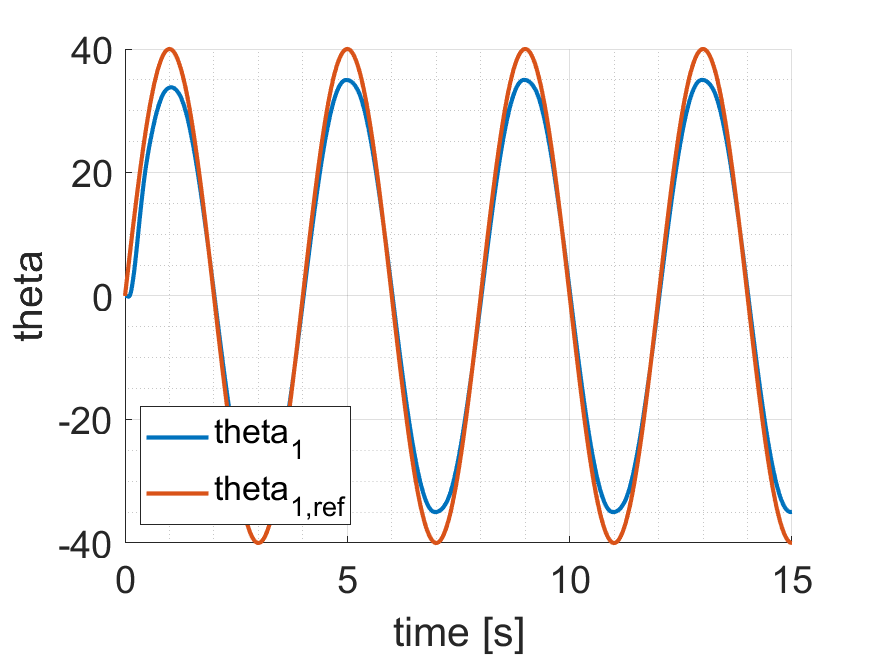
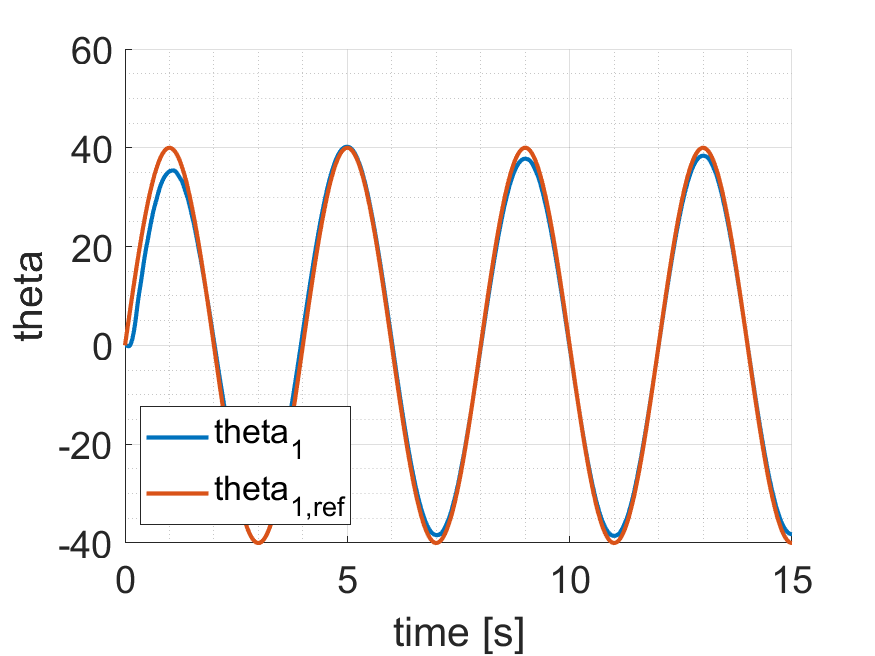
task05 ZiNi

diff --git a/final_exam/task05/run.m b/final_exam/task05/run.m
@@ -3,7 +3,7 @@ clear ALL;
 close ALL;
 warning ('off','all');
 
-do_rerun = false;
+do_rerun = true;
 
 % load parameter
 Parameter_PC2;
@@ -85,3 +85,29 @@ theta2_ref = simOut.get('theta2_ref');
 paw({time}, {theta_1}, {'theta_1'}, 'time [s]', 'theta', task_name, 'equilibrium_theta1_v3_PID_trajectory', plot_path, true, true, {''}, 'southwest');
 paw({time}, {u1}, {'u_1'}, 'time [s]', 'u [W]', task_name, 'equilibrium_u1_v3_noise_PID_step', plot_path, true, true, {''}, 'southwest');
 paw({time , time}, {theta_1, theta1_ref}, {'theta_1','theta_{1,ref}'}, 'time [s]', 'theta', task_name, 'equilibrium_theta1_thetaref_v3_PID_trajectory', plot_path, true, true, {'',''}, 'southwest');
+
+% change PID zo ZN system
+p_c = 0.3;
+T_c = 0.874;
+
+task_params.P1 = 0.6 * p_c;
+task_params.I1 = 0.4 * p_c / T_c;
+task_params.D1 = 1 * p_c * T_c;
+
+% run simulation
+simOut_2 = simulate('SMAWing_03_PID', do_rerun);
+time_2 = simOut_2.get('time');
+u1_2 = simOut_2.get('u1');
+u2_2 = simOut_2.get('u2');
+theta_1_2 = simOut_2.get('theta_1');
+theta_2_2 = simOut_2.get('theta_2');
+theta1_ref_2 = simOut_2.get('theta1_ref'); 
+theta2_ref_2 = simOut_2.get('theta2_ref');
+
+%paw({time}, {theta_2}, {'theta_2'}, 'time [s]', 'theta', task_name, 'equilibrium_theta2_v2_PID_trajectory', plot_path, true, true, {''}, 'southwest');
+%paw({time}, {u2}, {'u_2'}, 'time [s]', 'u [W]', task_name, 'equilibrium_u2_v2_noise_PID_step', plot_path, true, true, {''}, 'southwest');
+%paw({time , time}, {theta_2, theta2_ref}, {'theta_2','theta_{2,ref}'}, 'time [s]', 'theta', task_name, 'equilibrium_theta2_thetaref_v2_PID_trajjectory', plot_path, true, true, {'',''}, 'southwest');
+
+paw({time_2}, {theta_1_2}, {'theta_1'}, 'time [s]', 'theta', task_name, 'equilibrium_theta1_v3_PID_trajectory', plot_path, true, true, {''}, 'southwest');
+paw({time_2}, {u1_2}, {'u_1'}, 'time [s]', 'u [W]', task_name, 'equilibrium_u1_v3_noise_PID_step', plot_path, true, true, {''}, 'southwest');
+paw({time_2 , time_2}, {theta_1_2, theta1_ref_2}, {'theta_1','theta_{1,ref}'}, 'time [s]', 'theta', task_name, 'equilibrium_theta1_thetaref_v3_PID_trajectory', plot_path, true, true, {'',''}, 'southwest');
